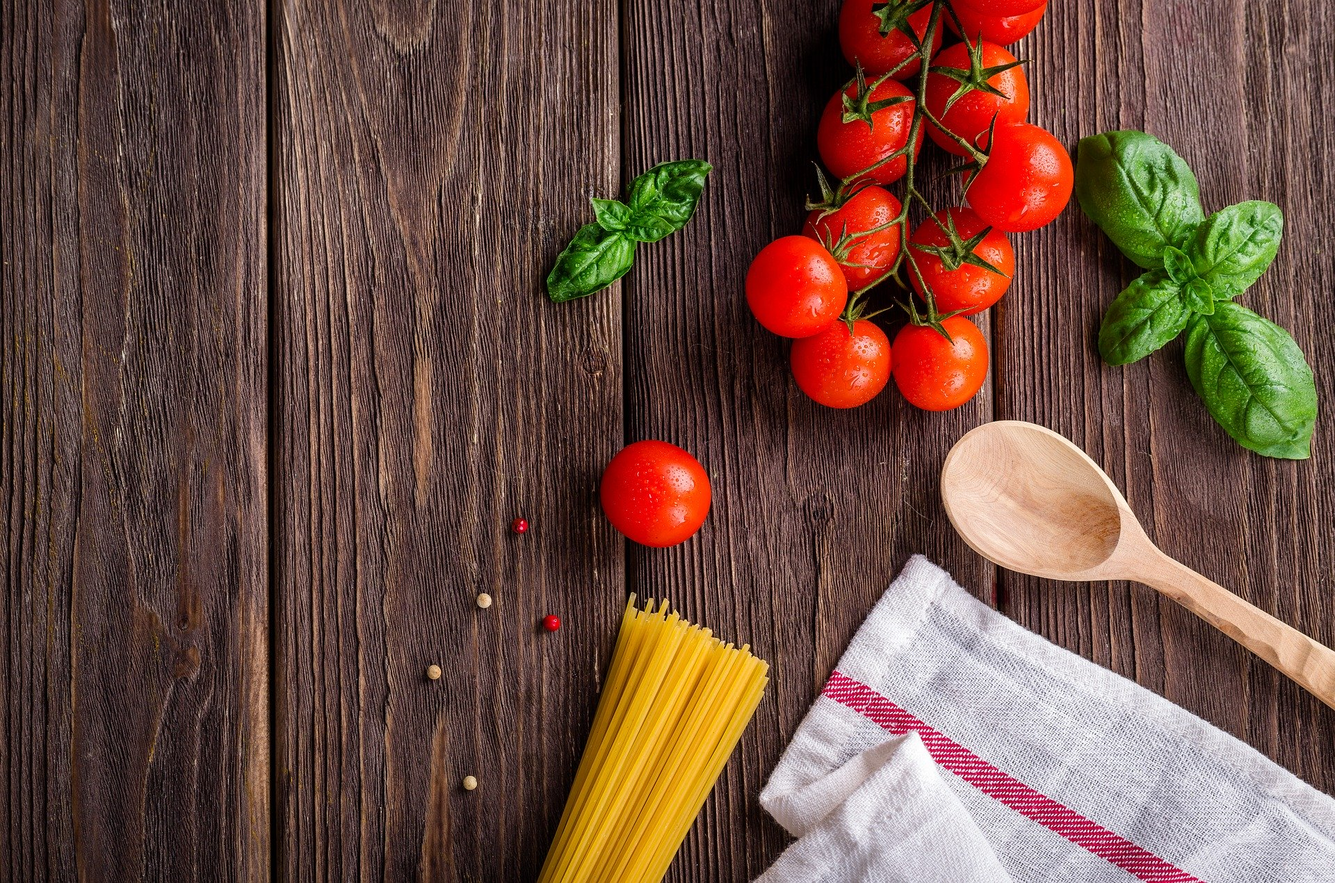
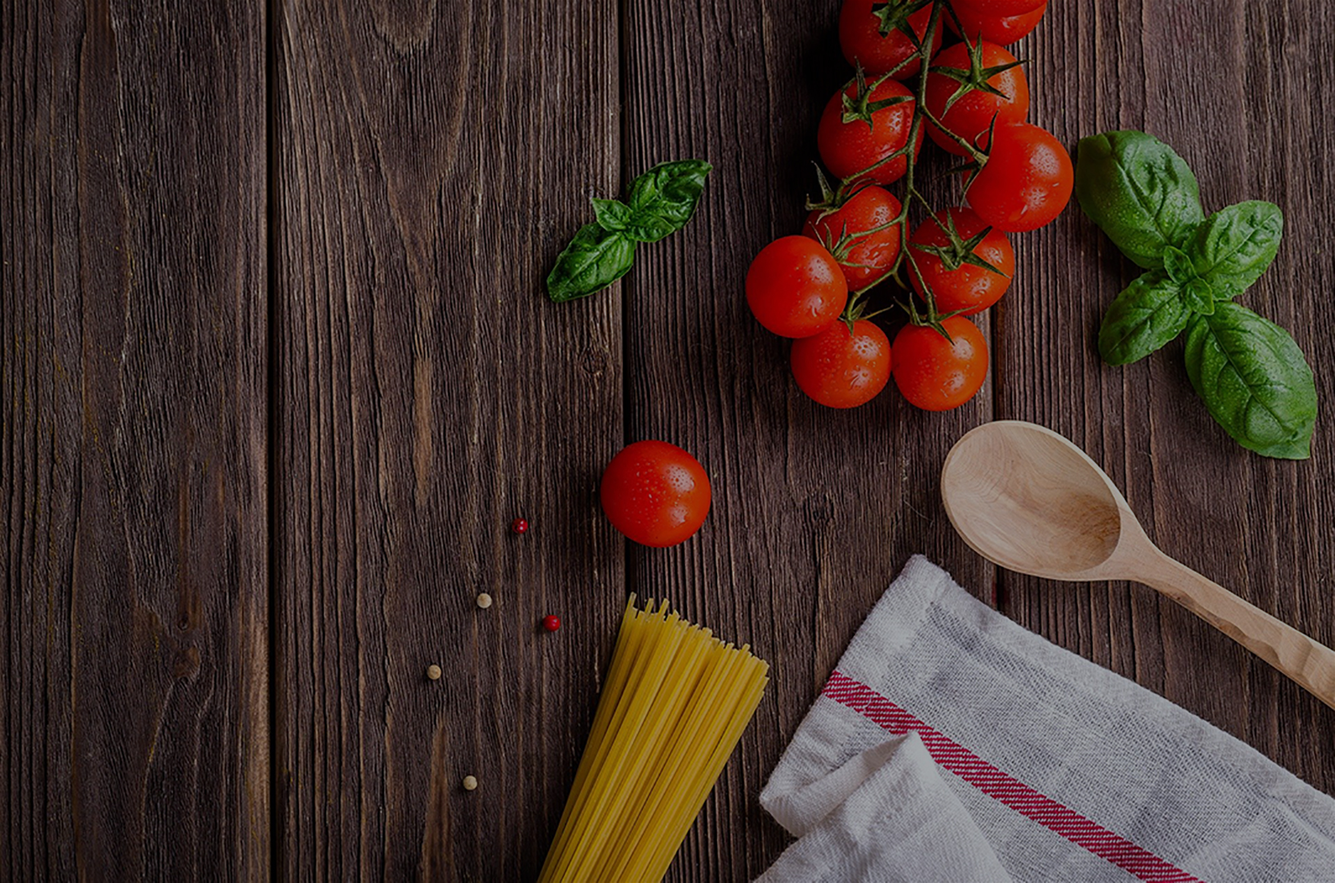
second

diff --git a/src/App.jsx b/src/App.jsx
@@ -1,9 +1,9 @@
-import React from 'react';
-import logo from './logo.svg';
+import React, { Fragment } from 'react';
 import './App.scss';
 import Header from './components/header/header.component'
-import { Container, Row } from 'react-bootstrap';
-import Background from './components/background/background.component'
+import { Switch, Route, Redirect } from 'react-router-dom'
+import MainPage from './pages/mainpage/mainpage.component'
+
 
 class App extends React.Component{
   constructor(){
@@ -12,21 +12,12 @@ class App extends React.Component{
 
   render(){
     return(
-
-      <div>
-          <Header />
-          <Container >
-            <Background />
-          </Container>
-         
-
-        <Container>
-        <h1>Foameea</h1>
-        </Container>
-      </div>
-        
-
-        
+      <React.Fragment>
+        <Header />
+        <Switch>
+          <Route exact path="/" component={MainPage} />
+        </Switch>
+      </React.Fragment>
     )
   }
 }

diff --git a/src/components/background/background.component.jsx b/src/components/background/background.component.jsx
@@ -1,14 +1,23 @@
 import React from 'react'
-import background from '../../assets/food-bg.jpg'
+import background from '../../assets/partial-bg.jpg'
+import { Row } from 'react-bootstrap'
+
+import './background.styles.scss'
 
 const Background = () => (
-    <div className="partial-bg" >
-        <img src={background} alt="Partial BG" styles={partialBg} />
-    </div>
+    <Row>
+        <div className="partial-bg" >
+            <div style={{backgroundImage:`url(${background})`}} alt="Partial BG" className='partial-image-bg' >
+                <div className="partial-container">
+                    <div className="box-container">
+                        <h1>Foamea</h1>
+                        <h3>Pentru gurmandul din tine</h3>
+                    </div>
+                </div>
+            </div>
+        </div>
+    </Row>
 )
 
-const partialBg = {
-    maxHeight: 50
-}
 
 export default Background;

diff --git a/src/pages/mainpage/mainpage.component.jsx b/src/pages/mainpage/mainpage.component.jsx
@@ -1,0 +1,23 @@
+import  React, { Fragment } from 'react'
+import Background from '../../components/background/background.component'
+import { Container, Row, Card, ListGroup } from 'react-bootstrap'
+
+const MainPage = props => (
+    <Fragment>
+    <Background />
+        <Row>
+            <Container>
+            <Card style={{ width: '18rem' }}>
+                <ListGroup variant="flush">
+                    <ListGroup.Item>Cras justo odio</ListGroup.Item>
+                    <ListGroup.Item>Dapibus ac facilisis in</ListGroup.Item>
+                    <ListGroup.Item>Vestibulum at eros</ListGroup.Item>
+                </ListGroup>
+            </Card>
+            </Container>
+        </Row>
+    </Fragment>
+  
+)
+
+export default MainPage;

diff --git a/src/components/background/background.styles.scss b/src/components/background/background.styles.scss
@@ -1,0 +1,36 @@
+.partial-image-bg{
+    width: 100vw;
+    height: 90vh;
+    position: relative;
+    display: flex;
+    background-position: center center;
+    background-size: cover;
+    border: 0;
+    margin: 0;
+    padding: 0;
+    align-items: center;
+    overflow: hidden;
+}
+
+.partial-container{
+    width: 100%;
+    max-width: 770px;
+    padding-left: 96px;
+    padding-right: 96px;
+    margin-left: auto;
+    margin-right: auto;
+}
+
+.box-container{
+    padding:20px;
+    color: white;
+    border-top: 3px dotted white;
+    border-bottom: 3px dotted white;
+    margin: 0;
+    display: inline-block;
+    text-align: center;
+     
+    h1{
+        font-family: 'Dancing Script', cursive;
+    }
+}

diff --git a/src/index.js b/src/index.js
@@ -2,12 +2,12 @@ import React from 'react';
 import ReactDOM from 'react-dom';
 import './index.css';
 import App from './App';
-import * as serviceWorker from './serviceWorker';
 import 'bootstrap/dist/css/bootstrap.min.css';
+import { BrowserRouter } from 'react-router-dom'
 
-ReactDOM.render(<App />, document.getElementById('root'));
+ReactDOM.render(
+    <BrowserRouter>
+        <App />
+    </BrowserRouter>, 
+    document.getElementById('root'));
 
-// If you want your app to work offline and load faster, you can change
-// unregister() to register() below. Note this comes with some pitfalls.
-// Learn more about service workers: https://bit.ly/CRA-PWA
-serviceWorker.unregister();

diff --git a/public/index.html b/public/index.html
@@ -16,7 +16,7 @@
     -->
     <link rel="manifest" href="%PUBLIC_URL%/manifest.json" />
     <link href="https://fonts.googleapis.com/css?family=Roboto&display=swap" rel="stylesheet">
-    <!--
+    <link href="https://fonts.googleapis.com/css?family=Dancing+Script&display=swap" rel="stylesheet">   <!--
       Notice the use of %PUBLIC_URL% in the tags above.
       It will be replaced with the URL of the `public` folder during the build.
       Only files inside the `public` folder can be referenced from the HTML.

diff --git a/src/App.scss b/src/App.scss
@@ -1,0 +1,3 @@
+#root { 
+  background-color: lightgrey;
+}
